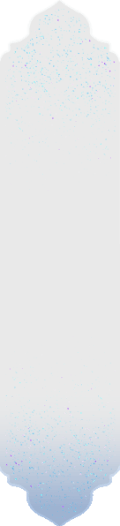
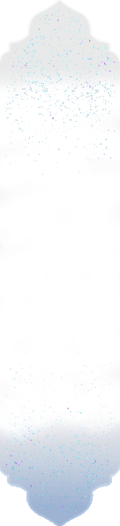
更新申鹤云堇素材

Changed region(s): [[0.0, 0.7605, 0.8, 0.8213], [0.825, 0.73, 0.875, 0.7909], [0.9, 0.7605, 0.95, 0.7909]]

diff --git a/config/system/command.js b/config/system/command.js
@@ -3,8 +3,8 @@ let command = {
   mysInfo: {
     role: "^#(角色2|宝箱|成就|尘歌壶|家园|探险|声望|探索度)[ |0-9]*$",
     roleAll: "(^#(角色|查询)[ |0-9]*$)|(^(#*uid|#*UID)\\+*[1|2|5][0-9]{8}$)|(^#\\+*[1|2|5][0-9]{8})",
-    abyssFloor: "^#[上期]*(深渊|深境|深境螺旋)[上期]*[第]*(9|10|11|12|九|十|十一|十二)层[ |0-9]*$",
-    abyss: "^#[上期]*(深渊|深境|深境螺旋)[上期]*[ |0-9]*$",
+    abyssFloor: "^#[上期|本期]*(深渊|深境|深境螺旋)[上期]*[第]*(9|10|11|12|九|十|十一|十二)层[ |0-9]*$",
+    abyss: "^#[上期|本期]*(深渊|深境|深境螺旋)[上期]*[ |0-9]*$",
     // weapon: "^#[五星|四星|5星|4星]*(武器)[ |0-9]*$",
     life: "^#(五星|四星|5星|4星|命座|角色|武器)[命座|角色|武器]*[信息|阵容]*[ |0-9]*$",
     wife: "^#(老婆|妻子|媳妇|娘子|女朋友|女友|女神|老公|丈夫|夫君|郎君|男朋友|男友|男神|女儿|儿子)$",

diff --git a/config/config_default.js b/config/config_default.js
@@ -24,7 +24,7 @@ let config = {
    * 米游社cookies，支持多个，用逗号隔开
    * 访问米游社原神社区(https://bbs.mihoyo.com/ys/)，登录后账户点击 F12 ，
    * 选中 Console 或控制台，点击控制台粘贴这一句
-   * document.cookie.match(/ltoken[^;]+;[^;]+;/)[0] ，回车即可获取
+   * document.cookie.match(/ltoken([^;]+;){2}/)[0] ，回车即可获取
    * 例如'ltoken=***;ltuid=***;'
    * cookie逻辑：一个号一天只能查30个uid（包括查询失败的），在没超过30的时候，之前查过的uid可以重复查询
    * 所以项目限制一个cookie只能查27个，避免超出限制，查询过的可以重复查
@@ -71,6 +71,7 @@ let config = {
   balckQQ:[2854196310,],
 
   //原神体力查询（#体力），配置了才能查
+  //游戏uid，米游社cookie
   dailyNote: {
     'qq号': { uid: "", cookie: "" },
   },

diff --git a/resources/genshin/character/character.css b/resources/genshin/character/character.css
@@ -652,3 +652,23 @@ body {
     background-size: 100%;
     background-position: 110px 0px;
 }
+.申鹤_bg1{
+    background-image: url(../logo/bg/申鹤1.png);
+    background-size: auto 100%;
+    background-position: 0% 0%;
+}
+.申鹤_bg2{
+    background-image: url(../logo/bg/申鹤2.png);
+    background-size: 100%;
+    background-position: 50px 0px;
+}
+.云堇_bg1{
+    background-image: url(../logo/bg/云堇1.png);
+    background-size: auto 100%;
+    background-position: 40% 0%;
+}
+.云堇_bg2{
+    background-image: url(../logo/bg/云堇2.png);
+    background-size: 100%;
+    background-position: 50px 0px;
+}
